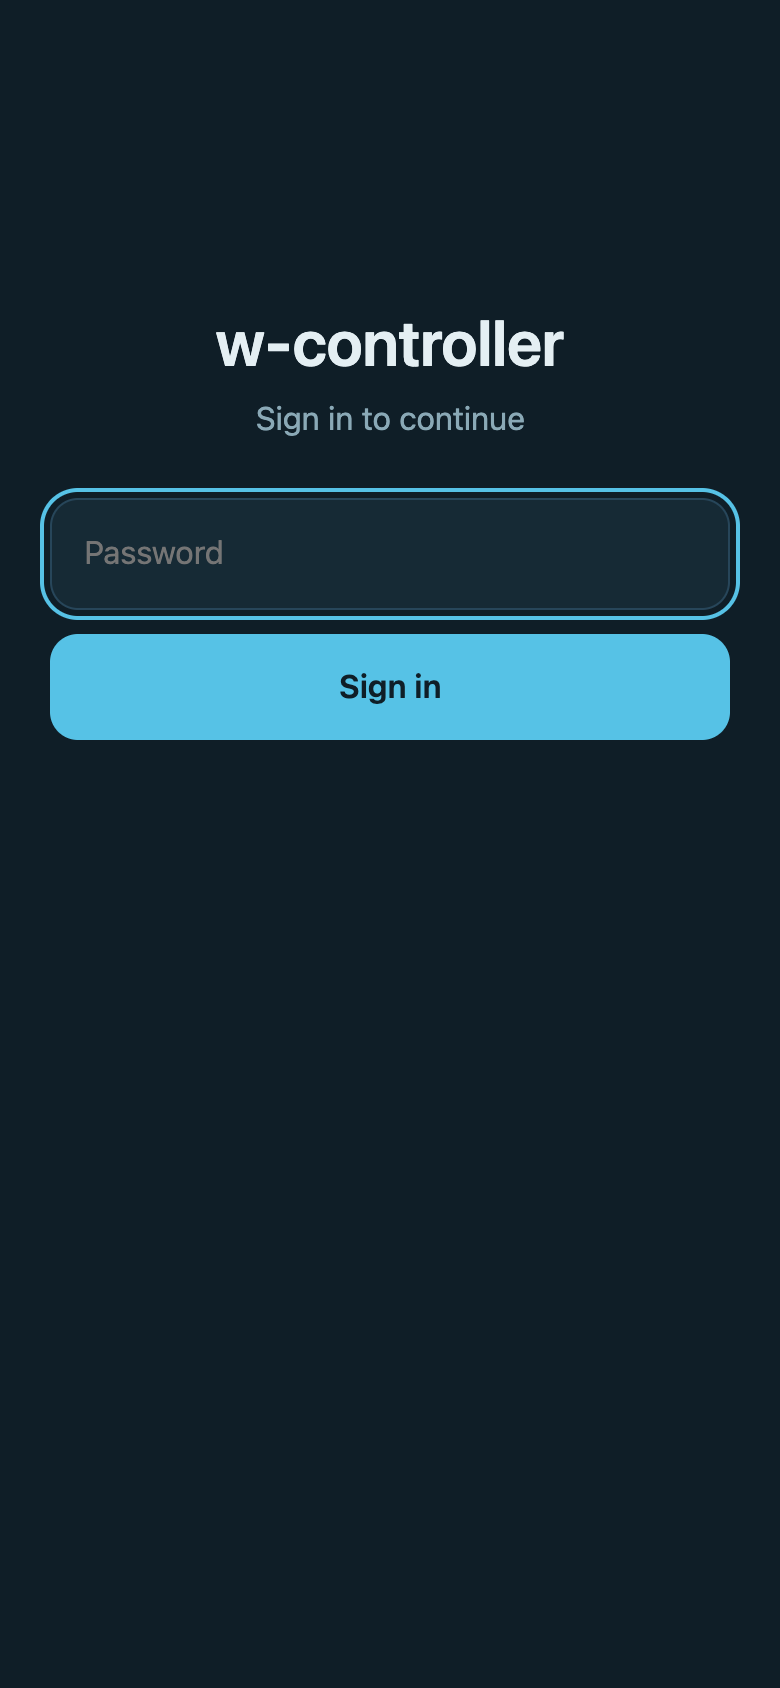
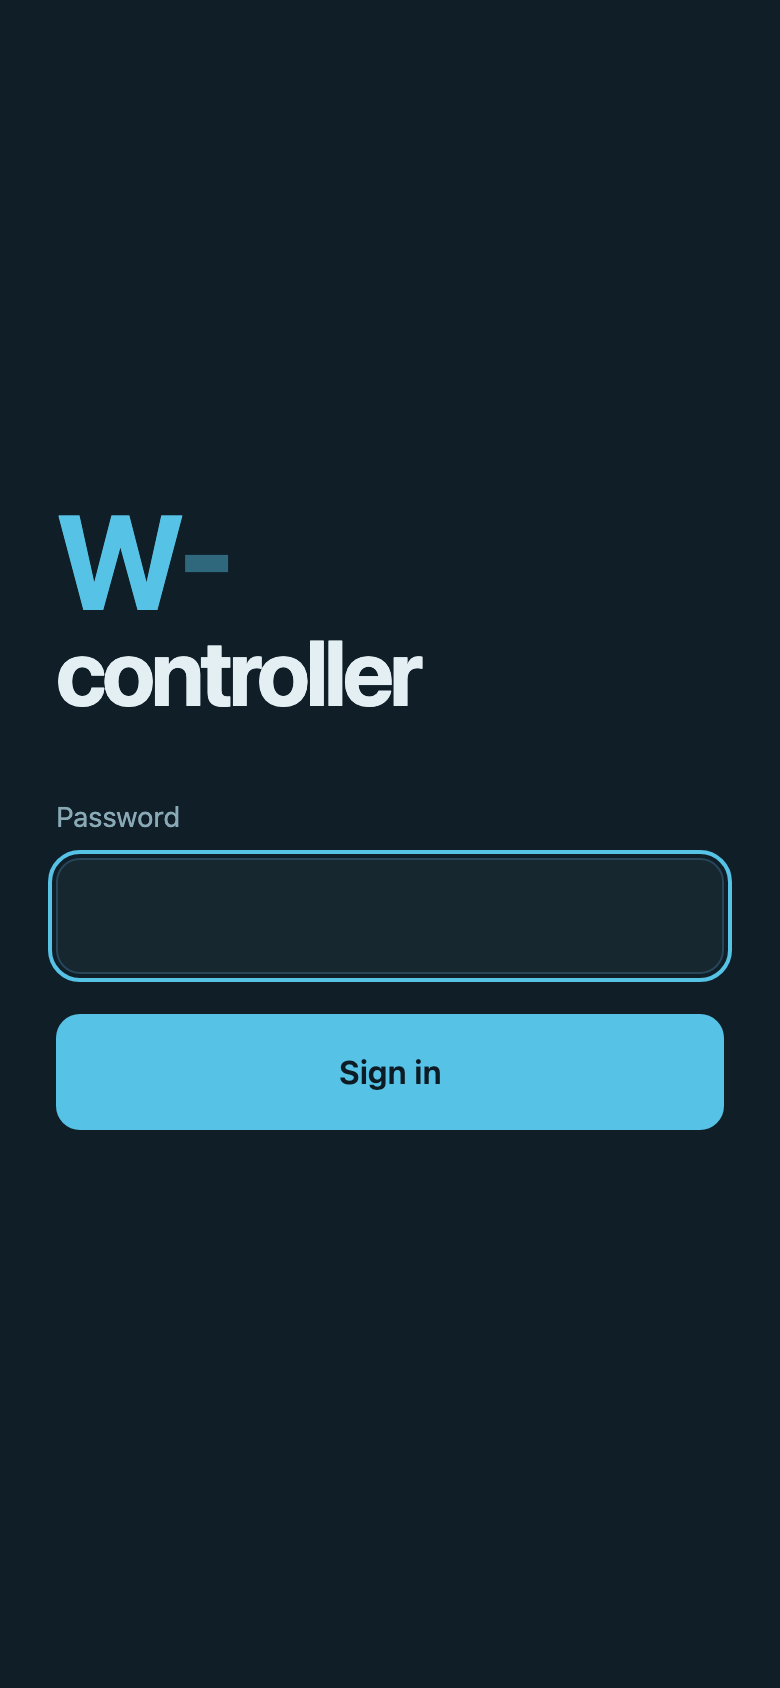
Sign-in page from home-idf 0.1.6
The page is no longer kept here: home_idf_login_page() renders it with the device name and accent colour at
build time and embeds it under the same symbols, so api.c is untouched.

New look, picked from mocks: left-aligned wordmark split on the name's first hyphen (accent W- over controller),
no subtitle, field and button both 58 px with a 20 px gap. 1748 B gzipped.

dev_proxy.py serves the rendered page from the build directory and says so when the firmware has not been built.

Changed region(s): [[0.0308, 0.1848, 0.9538, 0.6777]]

diff --git a/tools/dev_proxy.py b/tools/dev_proxy.py
@@ -15,6 +15,8 @@ ap.add_argument("device")
 ap.add_argument("--port", type=int, default=8080)
 args = ap.parse_args()
 WEB = pathlib.Path(__file__).resolve().parent.parent / "firmware" / "web"
+# The sign-in page comes from home-idf and is rendered with the device name and accent at build time.
+LOGIN = WEB.parent / "build" / "esp-idf" / "main" / "login_page" / "login.html"
 TYPES = {".png": "image/png", ".webmanifest": "application/manifest+json"}
 
 
@@ -49,7 +51,9 @@ class Proxy(http.server.BaseHTTPRequestHandler):
         conn = http.client.HTTPConnection(args.device, 80, timeout=10)
         conn.request("GET", "/api/session", headers={"Host": args.device, "Cookie": self.headers.get("Cookie", "")})
         authenticated = b'"authenticated":true' in conn.getresponse().read()
-        page = WEB / ("app.html" if authenticated else "login.html")
+        page = WEB / "app.html" if authenticated else LOGIN
+        if not page.exists():
+            raise SystemExit(f"{page} is missing: run firmware/build.sh once, the sign-in page is rendered there")
         self.static(page.read_bytes(), "text/html; charset=utf-8")
 
     def do_POST(self):

diff --git a/CLAUDE.md b/CLAUDE.md
@@ -97,7 +97,8 @@ main/
   telemetry.c   MQTT to hc-data through its own queue and task (timestamps fixed once the clock syncs)
   api.c         routes on the home-idf HTTP server
   config/       config.h (committed), credentials.h (never committed)
-web/            login.html (neutral), app.html (tabs Now/History/Protection/Device, vanilla, ~9.5 KB gzip), manifest, icon
+web/            app.html (tabs Now/History/Protection/Device, vanilla, ~9.5 KB gzip), manifest, icon
+                (the sign-in page comes from home-idf: home_idf_login_page() in main/CMakeLists.txt)
 test/           host unit tests (tier0, tier1, rules)
 migrator/       one-shot OTA image (home-idf hi_migrator); build with tools/build_release.sh [--spare]
 partitions.csv  ota_0 2M / ota_1 1.875M (legacy ota_1 offset kept for the migrator) / coredump
@@ -202,9 +203,12 @@ tools/dev_proxy.py <device-ip> --port 8765   # serves firmware/web/*.html locall
   - a dripping-leak rule event shows "0 L, 0 L/min" (firmware sends the current flow, which is zero between drips);
   - flow durations like "20:10" read like a clock time;
   - regenerate README screenshots after UI changes (`docs/img/app-*.png`, rendered with mocked API data via Playwright).
-- [ ] **Unified sign-in page for all projects, moved to home-idf** (owner request 2026-09-15):
-  - one template in home-idf (`web/login.html` + a CMake helper like `home_idf_login_page(<lib> NAME "w-controller" ACCENT "#56c2e6")`) gzipped at build time and served by `hi_httpd` when an app does not provide its own;
-  - same look as water-controller's current page (name centred, higher up), device name only, nothing else about the device;
-  - adopt in water-controller first, then gate (`g-controller`), heating and floor-heating when they move to home-idf.
+- [~] **Unified sign-in page for all projects, moved to home-idf** (owner request 2026-09-15):
+  - done in home-idf 0.1.6: `web/login.html` + `home_idf_login_page(<lib> NAME "w-controller" ACCENT "#56c2e6" [ICONS ON|OFF])`,
+    rendered and gzipped at build time under the symbols `hi_httpd` already reads; water-controller uses it and no
+    longer has its own `web/login.html`;
+  - design (owner picked it on 2026-09-16 from mocks): left-aligned wordmark split on the name's first hyphen,
+    accent `W-` at 1.45x over `controller`, no subtitle, field and button both 58 px with a 20 px gap;
+  - still to do: gate (`g-controller`), heating and floor-heating when they move to home-idf.
 - [ ] Stage 7 anomaly model; stage 8 GCP shutdown (not before 2026-09-29).
 - [ ] Sibling projects: CI everywhere (gate: none, heating: not on GitHub yet), move them to home-idf.
